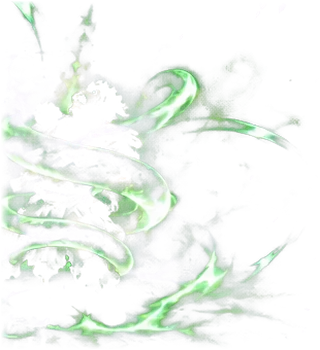
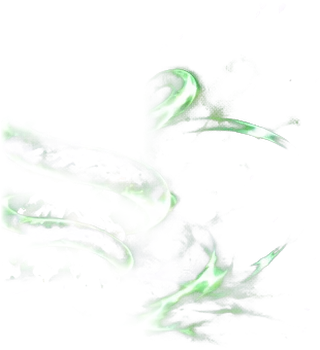
VFX-POI-02 R2: remove ghost actor from bind sprite, sharpen clean coils and enlarge serpent hero pose

diff --git a/docs/operations/VFX_POI02_CLEAN_SHEET_SOURCE_VL_ART_BRIEF_20261113.md b/docs/operations/VFX_POI02_CLEAN_SHEET_SOURCE_VL_ART_BRIEF_20261113.md
@@ -18,3 +18,8 @@ Canonical skill: tmb.skill.poison.co_doc.active_02.human / Poison / Cổ Độc 
 ## Implementation / art hold
 Scene: res://labs/combat_lab/poison02/xa_anh_source_vl_remake.tscn.
 Godot GL Compatibility 4.7.2, native 1280×720 and 1x. All rendered stages must be inspected in movie. This is an experiment; OWNER_VISUAL_PENDING until explicit review. Do not enable V6.3/PvE or call this production-approved. Physical Windows/Android perf, scale/LOD 6v8 and 30x40 remain untested.
+## Internal R1 native artistic inspection and immediate R2 correction
+
+R1 exact source db93d6cff55ef128c791c12251d92271d8938259 / official run #43484906760 TECH PASS (Godot 4.7.2 import/parse/focused). Actual frames inspected at 1.30, 1.55, 1.70 and 1.92 seconds. Original painted serpent clearly reads with scales, cobra head and fangs at native 1x; its end pose was small. **ART REJECTED R1** because the 1.70–1.92 bind overlay retained a visually obvious duplicate source figure / contamination. That is not a valid contact VFX.
+
+R2 replaces the binding asset with a masked energy-only cutout, hand-tracing the spiral strokes and removing the source actor. Removes hard seam with feathered alpha. Also boosts serpent hero scale late flight (0.96 -> 1.19), bind sprite footprint, adds short 140-ms single contact flash. The new art remains image-backed, alpha front / additive bind, target still has no gameplay side-effects. Verify by fresh exact-SHA Godot video before any subjective claim.
